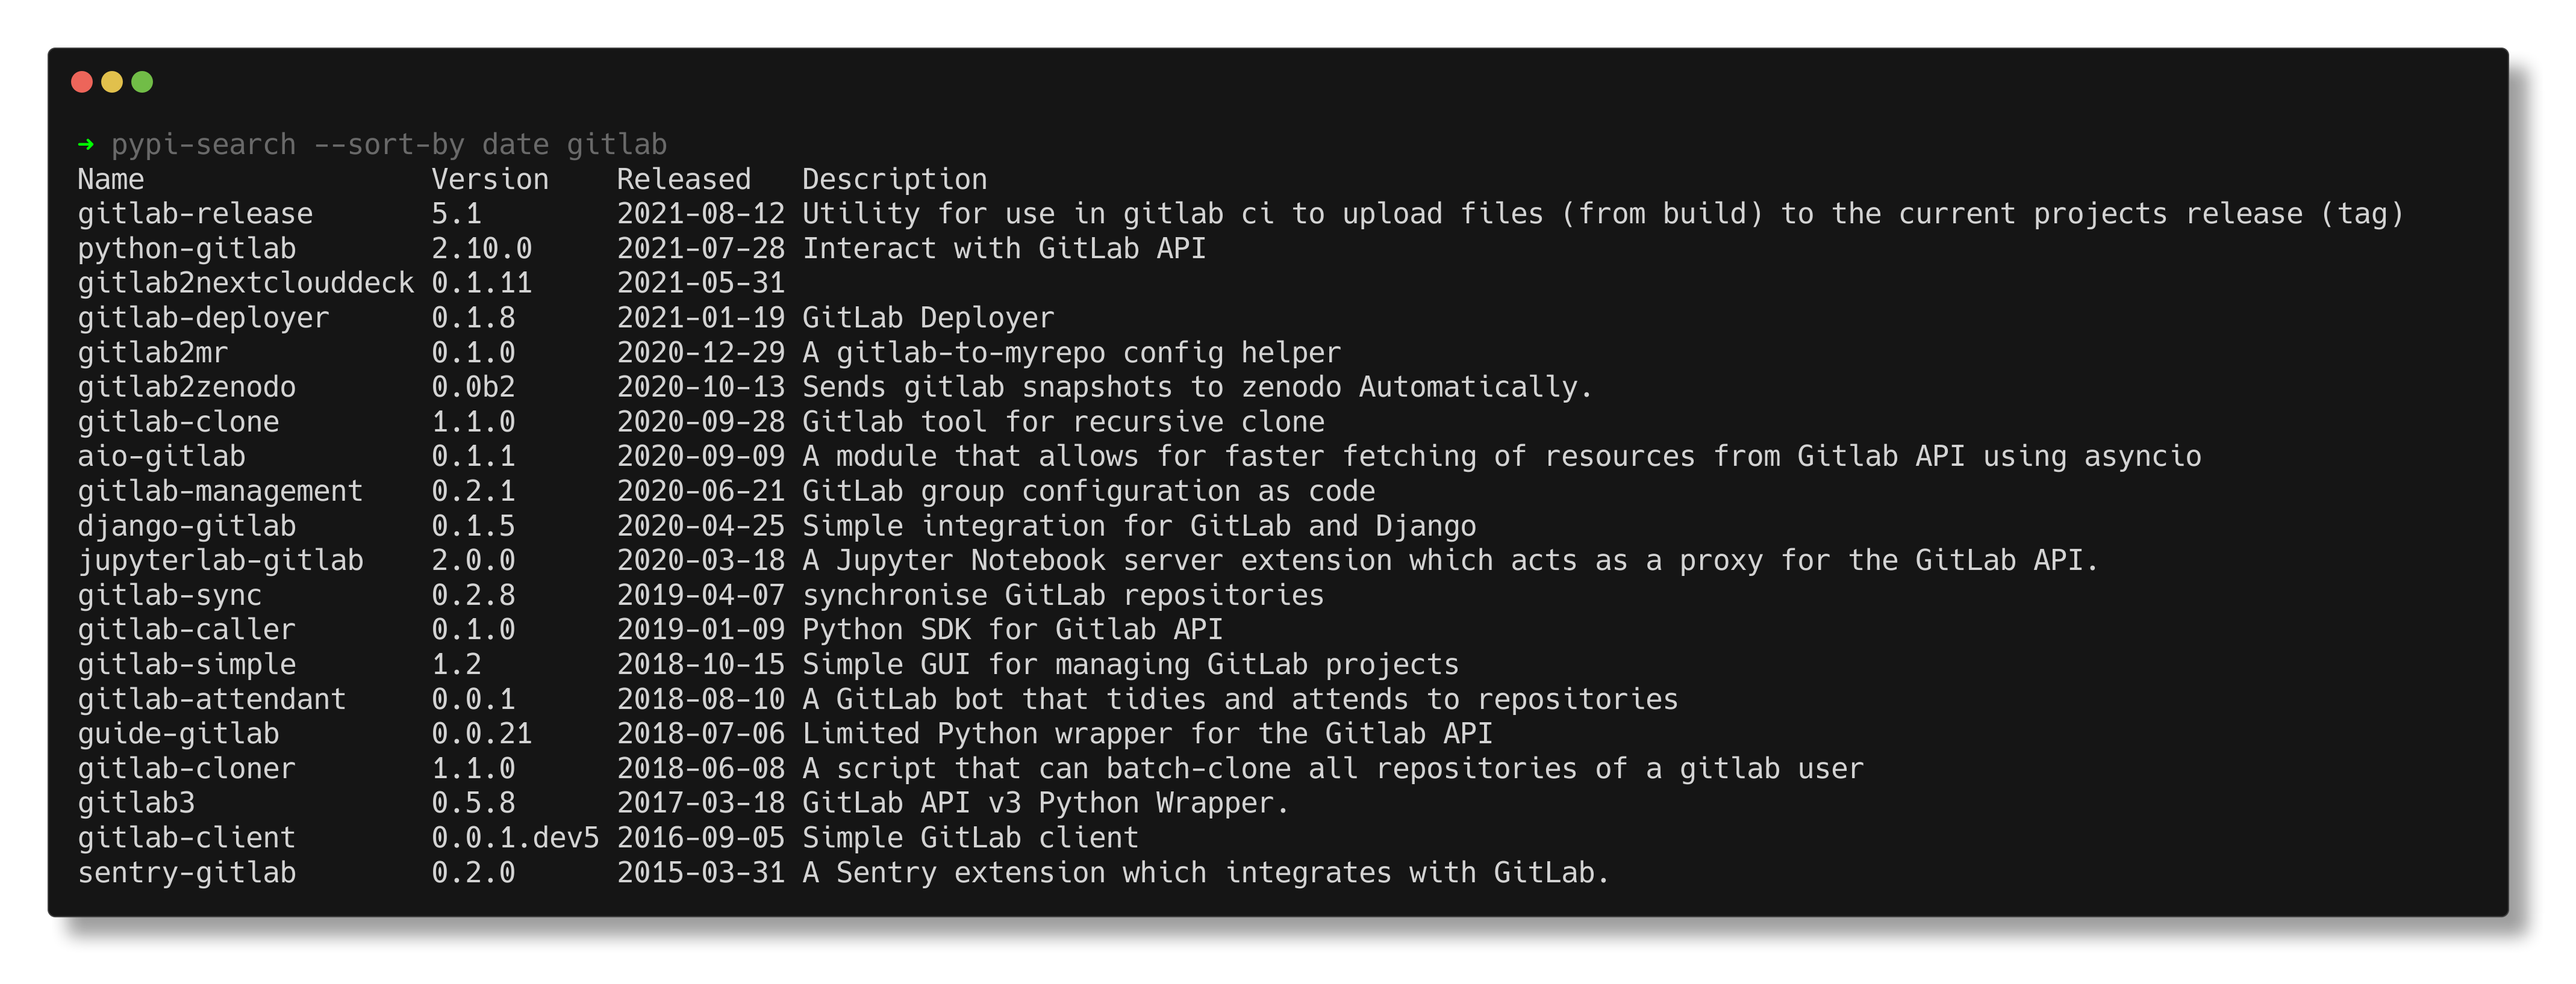
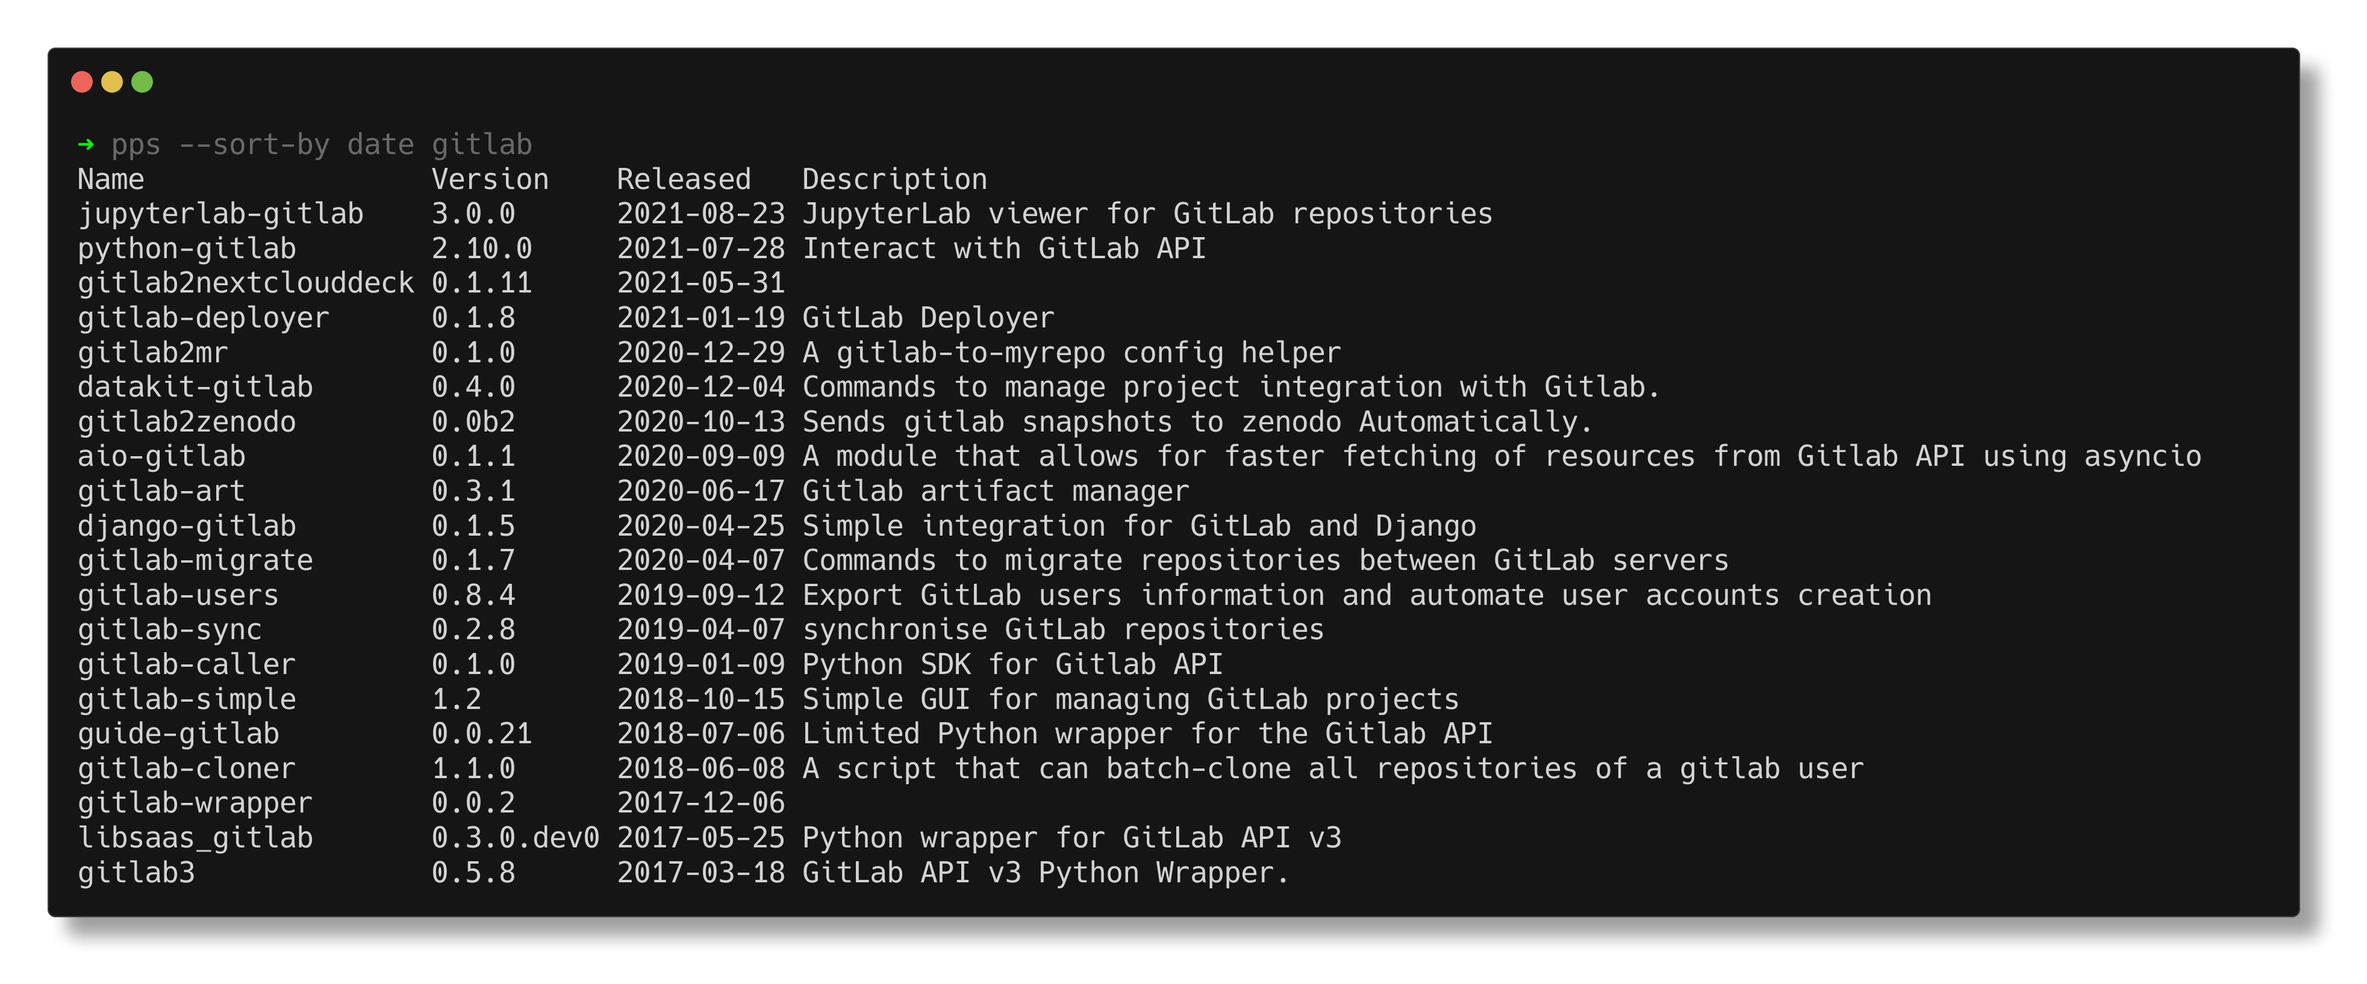
Renamed the project to pps due to name collision

diff --git a/src/main.rs b/src/main.rs
@@ -1,5 +1,5 @@
 use anyhow::Result;
-use pypi_search;
+use pps;
 use tabled::Table;
 use structopt::StructOpt;
 use clap::arg_enum;
@@ -35,7 +35,7 @@ struct Opt {
 #[tokio::main]
 async fn main() -> Result<()>{
     let opt = Opt::from_args();
-    let mut packages = pypi_search::query_pypi(opt.name.into(), opt.pages).await?;
+    let mut packages = pps::query_pypi(opt.name.into(), opt.pages).await?;
     match opt.sort_by {
         SortBy::Date => {packages.sort_by(|a, b| b.release.cmp(&a.release))},
         SortBy::Name => {packages.sort_by(|a, b| a.name.cmp(&b.name))},

diff --git a/benches/my_benchmark.rs b/benches/my_benchmark.rs
@@ -1,10 +1,10 @@
 use criterion::{black_box, criterion_group, criterion_main, Criterion};
 use scraper::{Html, Selector};
-use pypi_search;
+use pps;
 
 fn bench_query() {
      let rt = tokio::runtime::Runtime::new().unwrap();
-     rt.block_on(pypi_search::query_pypi("gitlab", 3)).unwrap();
+     rt.block_on(pps::query_pypi("gitlab".into(), 3)).unwrap();
 }
 
 fn criterion_benchmark(c: &mut Criterion) {

diff --git a/README.md b/README.md
@@ -1,20 +1,32 @@
-# PyPI Search
+# PPS -- Python Package Index Search
 
-Search the PyPI for packages by name aka `pip search`.
+Search the PyPI for packages by name, which was done by `pip search` in the past.
 
-This was heavily inspired by [pip_search](https://github.com/victorgarric/pip_search) which looks fantastic but is a little slow. Also the output is unnecessary hard to process by other command line tools.
+This was heavily inspired by [pip_search](https://github.com/victorgarric/pip_search) which looks fantastic but is a little slow. 
+Also the output is unnecessary hard to process by other command line tools.
+
+
 
 ## Features
-Search the Python Package Index by package name with `pypi-search STRING`
+Search the Python Package Index by package name with `pps STRING`
 
 ![Demo](./demo.gif)
 
-and sort by name or release date with `pypi-search --sort-by (date|name)`
+and sort by name or release date with `pps --sort-by (date|name)`
 
 ![search](./screenshot-show-by-date.png)
 
 ## Installation
 
-`cargo install pypi-search`
+`cargo install pps`
 
-
+To keep muscle memory in place, you can use
+```bash
+ alias pip='function _pip(){
+    if [ $1 = "search" ]; then
+        pps "$2";
+    else pip "$@";
+    fi;
+    };_pip
+```
+(credits to [pip_search](https://github.com/victorgarric/pip_search))
